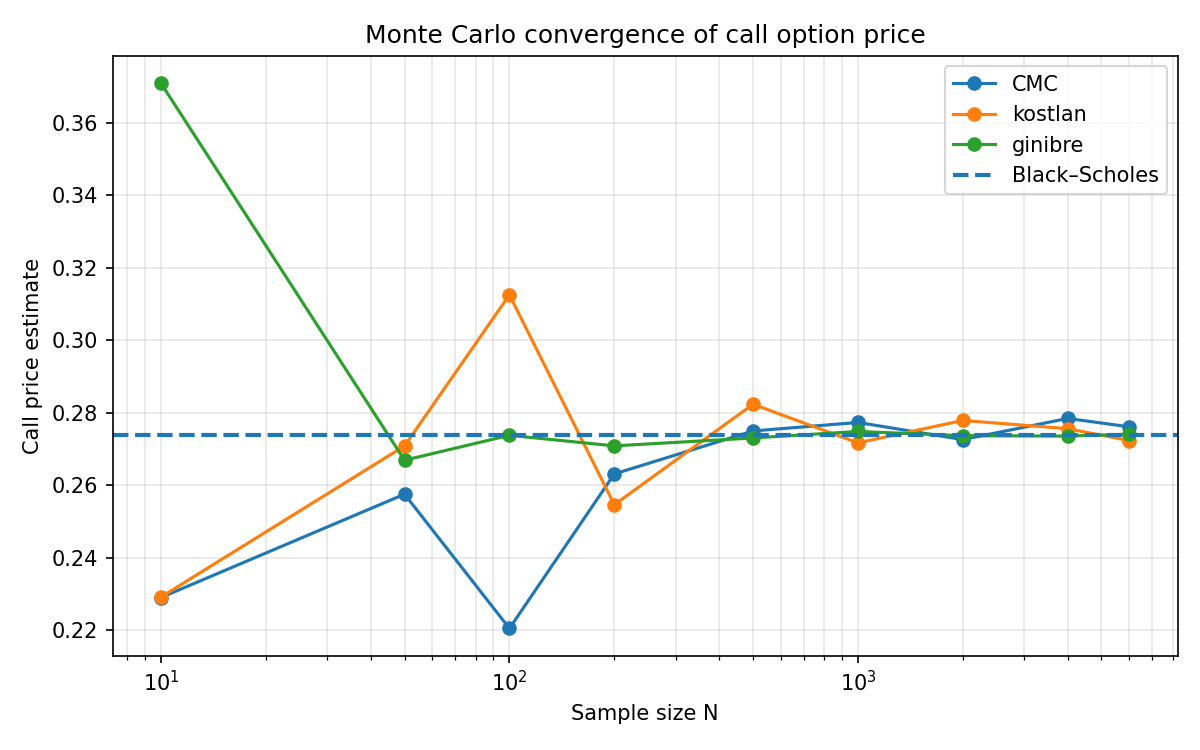
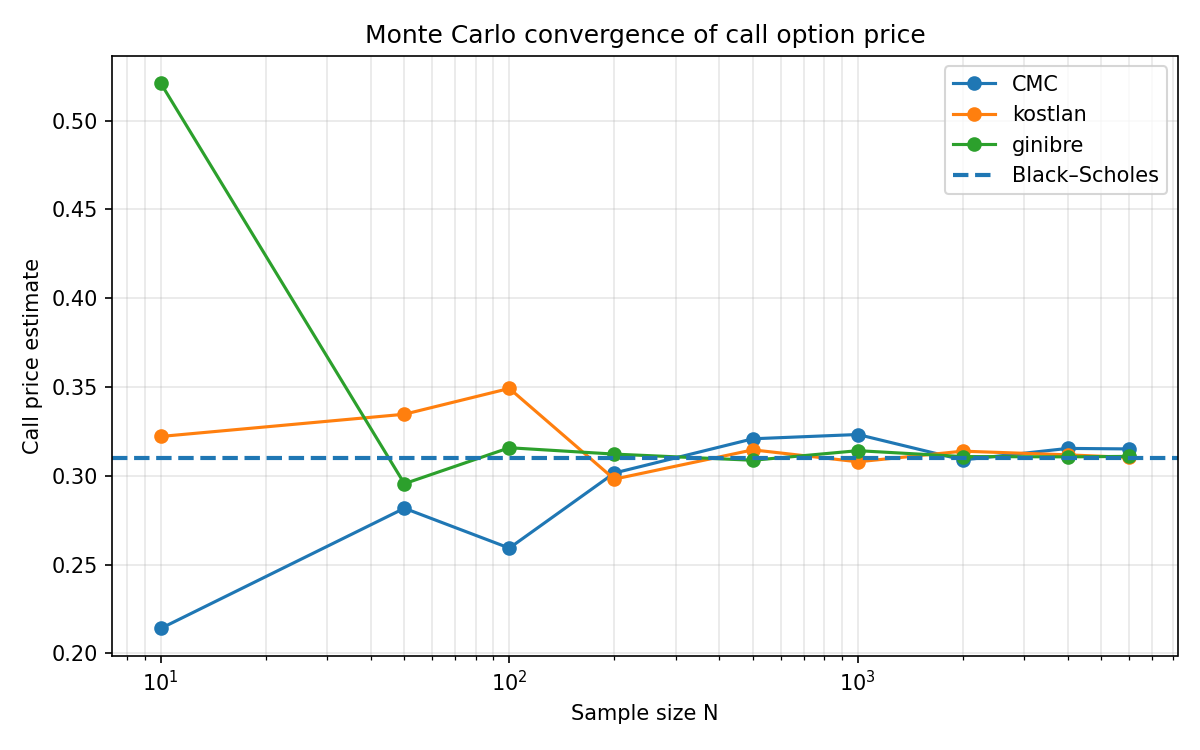
call copula add

diff --git a/unitary_matrices/call_estimation/estimate_call_qmc.py b/unitary_matrices/call_estimation/estimate_call_qmc.py
@@ -6,13 +6,12 @@ import pandas as pd
 from tqdm.auto import tqdm
 
 from unitary_matrices.computation.computation import (
-    estimate_call_mc,
-    call_bs,
-    gen_points_original as gen_points,
+    estimate_truth_mc,
+    gen_points_original as gen_points, estimate_2d_call, gaussian_copula_remap,
 )
 from unitary_matrices.config.config import CALL_ESTIMATION_OUTPUT_DIR
 
-def plot_convergence(df, bs_price, out_path):
+def plot_convergence(df, truth_line, out_path):
     plt.figure(figsize=(8, 5))
 
     for method in ["CMC", "kostlan", "ginibre"]:
@@ -24,7 +23,7 @@ def plot_convergence(df, bs_price, out_path):
         )
 
     plt.axhline(
-        bs_price,
+        truth_line,
         linestyle="--",
         linewidth=2,
         label="Black–Scholes",
@@ -46,15 +45,10 @@ def run_experiment(
     Rs=(10, 50, 100, 200, 500, 1000, 2000, 4000, 6000),
     out=CALL_ESTIMATION_OUTPUT_DIR,
 ):
-    # ---- option params ----
-    S0 = 100.0
-    K = 100.0
-    r = 0.05
-    sigma = 0.2
-    T = 1.0
 
-    bs_price = call_bs(S0, K, r, sigma, T)
-    print("Real price:", bs_price)
+    rho = 0.7
+    truth_line = estimate_truth_mc(rho=rho)
+    print("Real price:", truth_line)
 
     out = Path(out)
     out.mkdir(exist_ok=True)
@@ -75,8 +69,9 @@ def run_experiment(
                     pts = gen_points(name, R, seed=base_seed + R)
                     times[name] = perf_counter() - t0
 
-                    z = pts[:, 0]  # interpret first coord as N(0,1)
-                    vals[name] = estimate_call_mc(z, S0, K, r, sigma, T)
+                    remap = gaussian_copula_remap(pts, rho)
+
+                    vals[name] = estimate_2d_call(remap)
 
                     pbar_R.update(1)
                     pbar_global.update(1)
@@ -85,15 +80,15 @@ def run_experiment(
                 "R": R,
 
                 "CMC_val": vals["CMC"],
-                "CMC_err": abs(vals["CMC"] - bs_price),
+                "CMC_err": abs(vals["CMC"] - truth_line),
                 "CMC_gen_time_s": times["CMC"],
 
                 "kostlan_val": vals["kostlan"],
-                "kostlan_err": abs(vals["kostlan"] - bs_price),
+                "kostlan_err": abs(vals["kostlan"] - truth_line),
                 "kostlan_gen_time_s": times["kostlan"],
 
                 "ginibre_val": vals["ginibre"],
-                "ginibre_err": abs(vals["ginibre"] - bs_price),
+                "ginibre_err": abs(vals["ginibre"] - truth_line),
                 "ginibre_gen_time_s": times["ginibre"],
             })
 
@@ -105,7 +100,7 @@ def run_experiment(
     print(f"Saved table -> {csv_path}")
 
     fig_path = out / "call_convergence_vs_N.png"
-    plot_convergence(df, bs_price, fig_path)
+    plot_convergence(df, truth_line, fig_path)
     print(f"Saved convergence plot -> {fig_path}")
 
 

diff --git a/unitary_matrices/sampling/distribution_plots.py b/unitary_matrices/sampling/distribution_plots.py
@@ -1,5 +1,6 @@
 import matplotlib.pyplot as plt
 import numpy as np
+from pted import pted
 
 from scipy.stats import ks_2samp
 from unitary_matrices.config.config import CIRCLES_OUTPUT_DIR
@@ -65,6 +66,41 @@ def linear_stats(z):
             "mean_exp": np.mean(np.exp(-5 * r ** 2)),
         }
 
+
+def pted_in_R2(eigvals: np.ndarray, comparison_pts: np.ndarray):
+    """
+    Two-sample PTED test in R^2.
+
+    Parameters
+    ----------
+    eigvals : np.ndarray
+        Complex eigenvalues, shape (n,)
+    comparison_pts : np.ndarray
+        Either:
+        - complex array of shape (m,), or
+        - real array of shape (m, 2) with (x, y)
+
+    Returns
+    -------
+    float
+        p-value from PTED
+    """
+
+    # --- Ginibre eigenvalues → R^2 ---
+    X = np.column_stack([eigvals.real, eigvals.imag])
+
+    # --- Comparison points → R^2 ---
+    if np.iscomplexobj(comparison_pts):
+        Y = np.column_stack([comparison_pts.real, comparison_pts.imag])
+    else:
+        comparison_pts = np.asarray(comparison_pts)
+        if comparison_pts.ndim != 2 or comparison_pts.shape[1] != 2:
+            raise ValueError("comparison_pts must be complex or shape (m, 2)")
+        Y = comparison_pts
+
+    #Pval
+    return pted(X, Y)
+
 def compare_ginibre_vs_kostlan(
             ginibre: np.ndarray,
             kostlan: np.ndarray,
@@ -87,6 +123,9 @@ def compare_ginibre_vs_kostlan(
 
         print("Linear stat for ginibre:", linear_stats(ginibre))
         print("Linear stat for kostlan :", linear_stats(kostlan))
+
+        pted_result = pted_in_R2(ginibre, kostlan)
+        print("PTED result p-value:", pted_result)
 
         # --- Plot ---
         fig, axes = plt.subplots(1, 2, figsize=(8, 4))

diff --git a/unitary_matrices/computation/computation.py b/unitary_matrices/computation/computation.py
@@ -116,15 +116,33 @@ def estimate_pi(points):
     inside = (x * x + y * y) <= 1.0
     return 4.0 * np.count_nonzero(inside) / points.shape[0]
 
-def estimate_call_mc(z, S0, K, r, sigma, T):
-    ST = S0 * np.exp((r - 0.5 * sigma**2) * T + sigma * np.sqrt(T) * z)
-    payoff = np.maximum(ST - K, 0.0)
-    return np.exp(-r * T) * payoff.mean()
+def estimate_2d_call(pts, K=1.5):
+    S1 = np.exp(pts[:, 0])
+    S2 = np.exp(pts[:, 1])
+    payoff = np.maximum(0.5 * (S1 + S2) - K, 0.0)
+    return payoff.mean()
 
-def call_bs(S0, K, r, sigma, T):
-    d1 = (np.log(S0 / K) + (r + 0.5 * sigma**2) * T) / (sigma * np.sqrt(T))
-    d2 = d1 - sigma * np.sqrt(T)
-    return S0 * norm.cdf(d1) - K * np.exp(-r * T) * norm.cdf(d2)
+
+def estimate_truth_mc(N=5_000_000, rho=0.7):
+    Z = np.random.multivariate_normal(
+        mean=[0, 0],
+        cov=[[1, rho], [rho, 1]],
+        size=N
+    )
+    U = norm.cdf(Z)          # dependent uniforms
+    return estimate_2d_call(U)
+
+
+def gaussian_copula_remap(U, rho):
+    """
+    U : (n,2) iid uniform points
+    rho : correlation parameter in (-1,1)
+    """
+    Z = norm.ppf(U)   # iid N(0,1)
+    L = np.linalg.cholesky([[1.0, rho], [rho, 1.0]])
+    Zc = Z @ L.T      # correlated normals
+    return norm.cdf(Zc)
+
 
 
 
